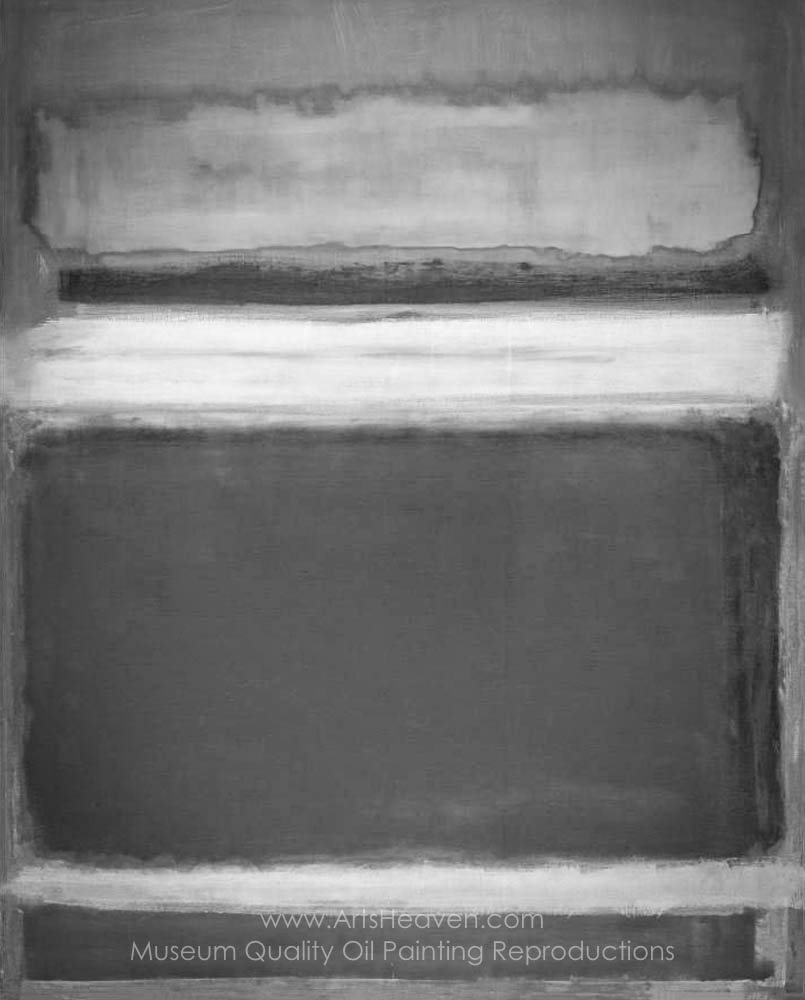
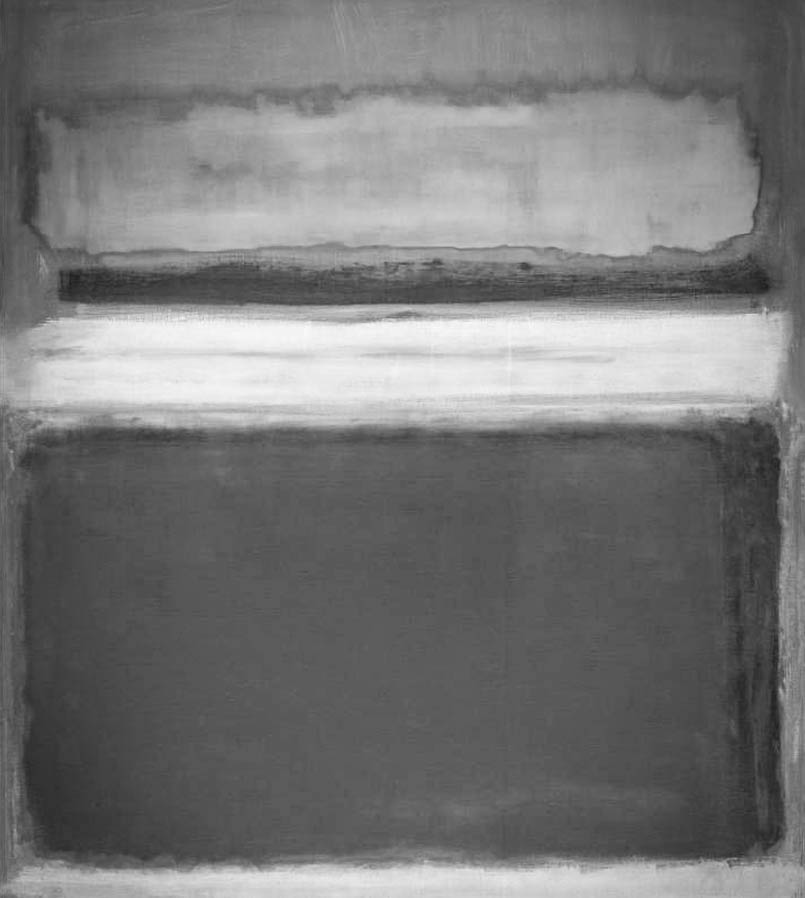
background image style

diff --git a/gandr-frontend/css/heroic-features.css b/gandr-frontend/css/heroic-features.css
@@ -6,6 +6,11 @@
 body {
   padding-top: 56px;
   background-image: url('../images/rothko_grey.jpg');
+  background-color: #cccccc; /* Used if the image is unavailable */
+  background-attachment: fixed;
+  background-position: center top; /* Center the image */
+  background-repeat: no-repeat; /* Do not repeat the image */
+  background-size: cover; /* Resize the background image to cover the entire container */
   font-family: 'Raleway', sans-serif;
 }
 
